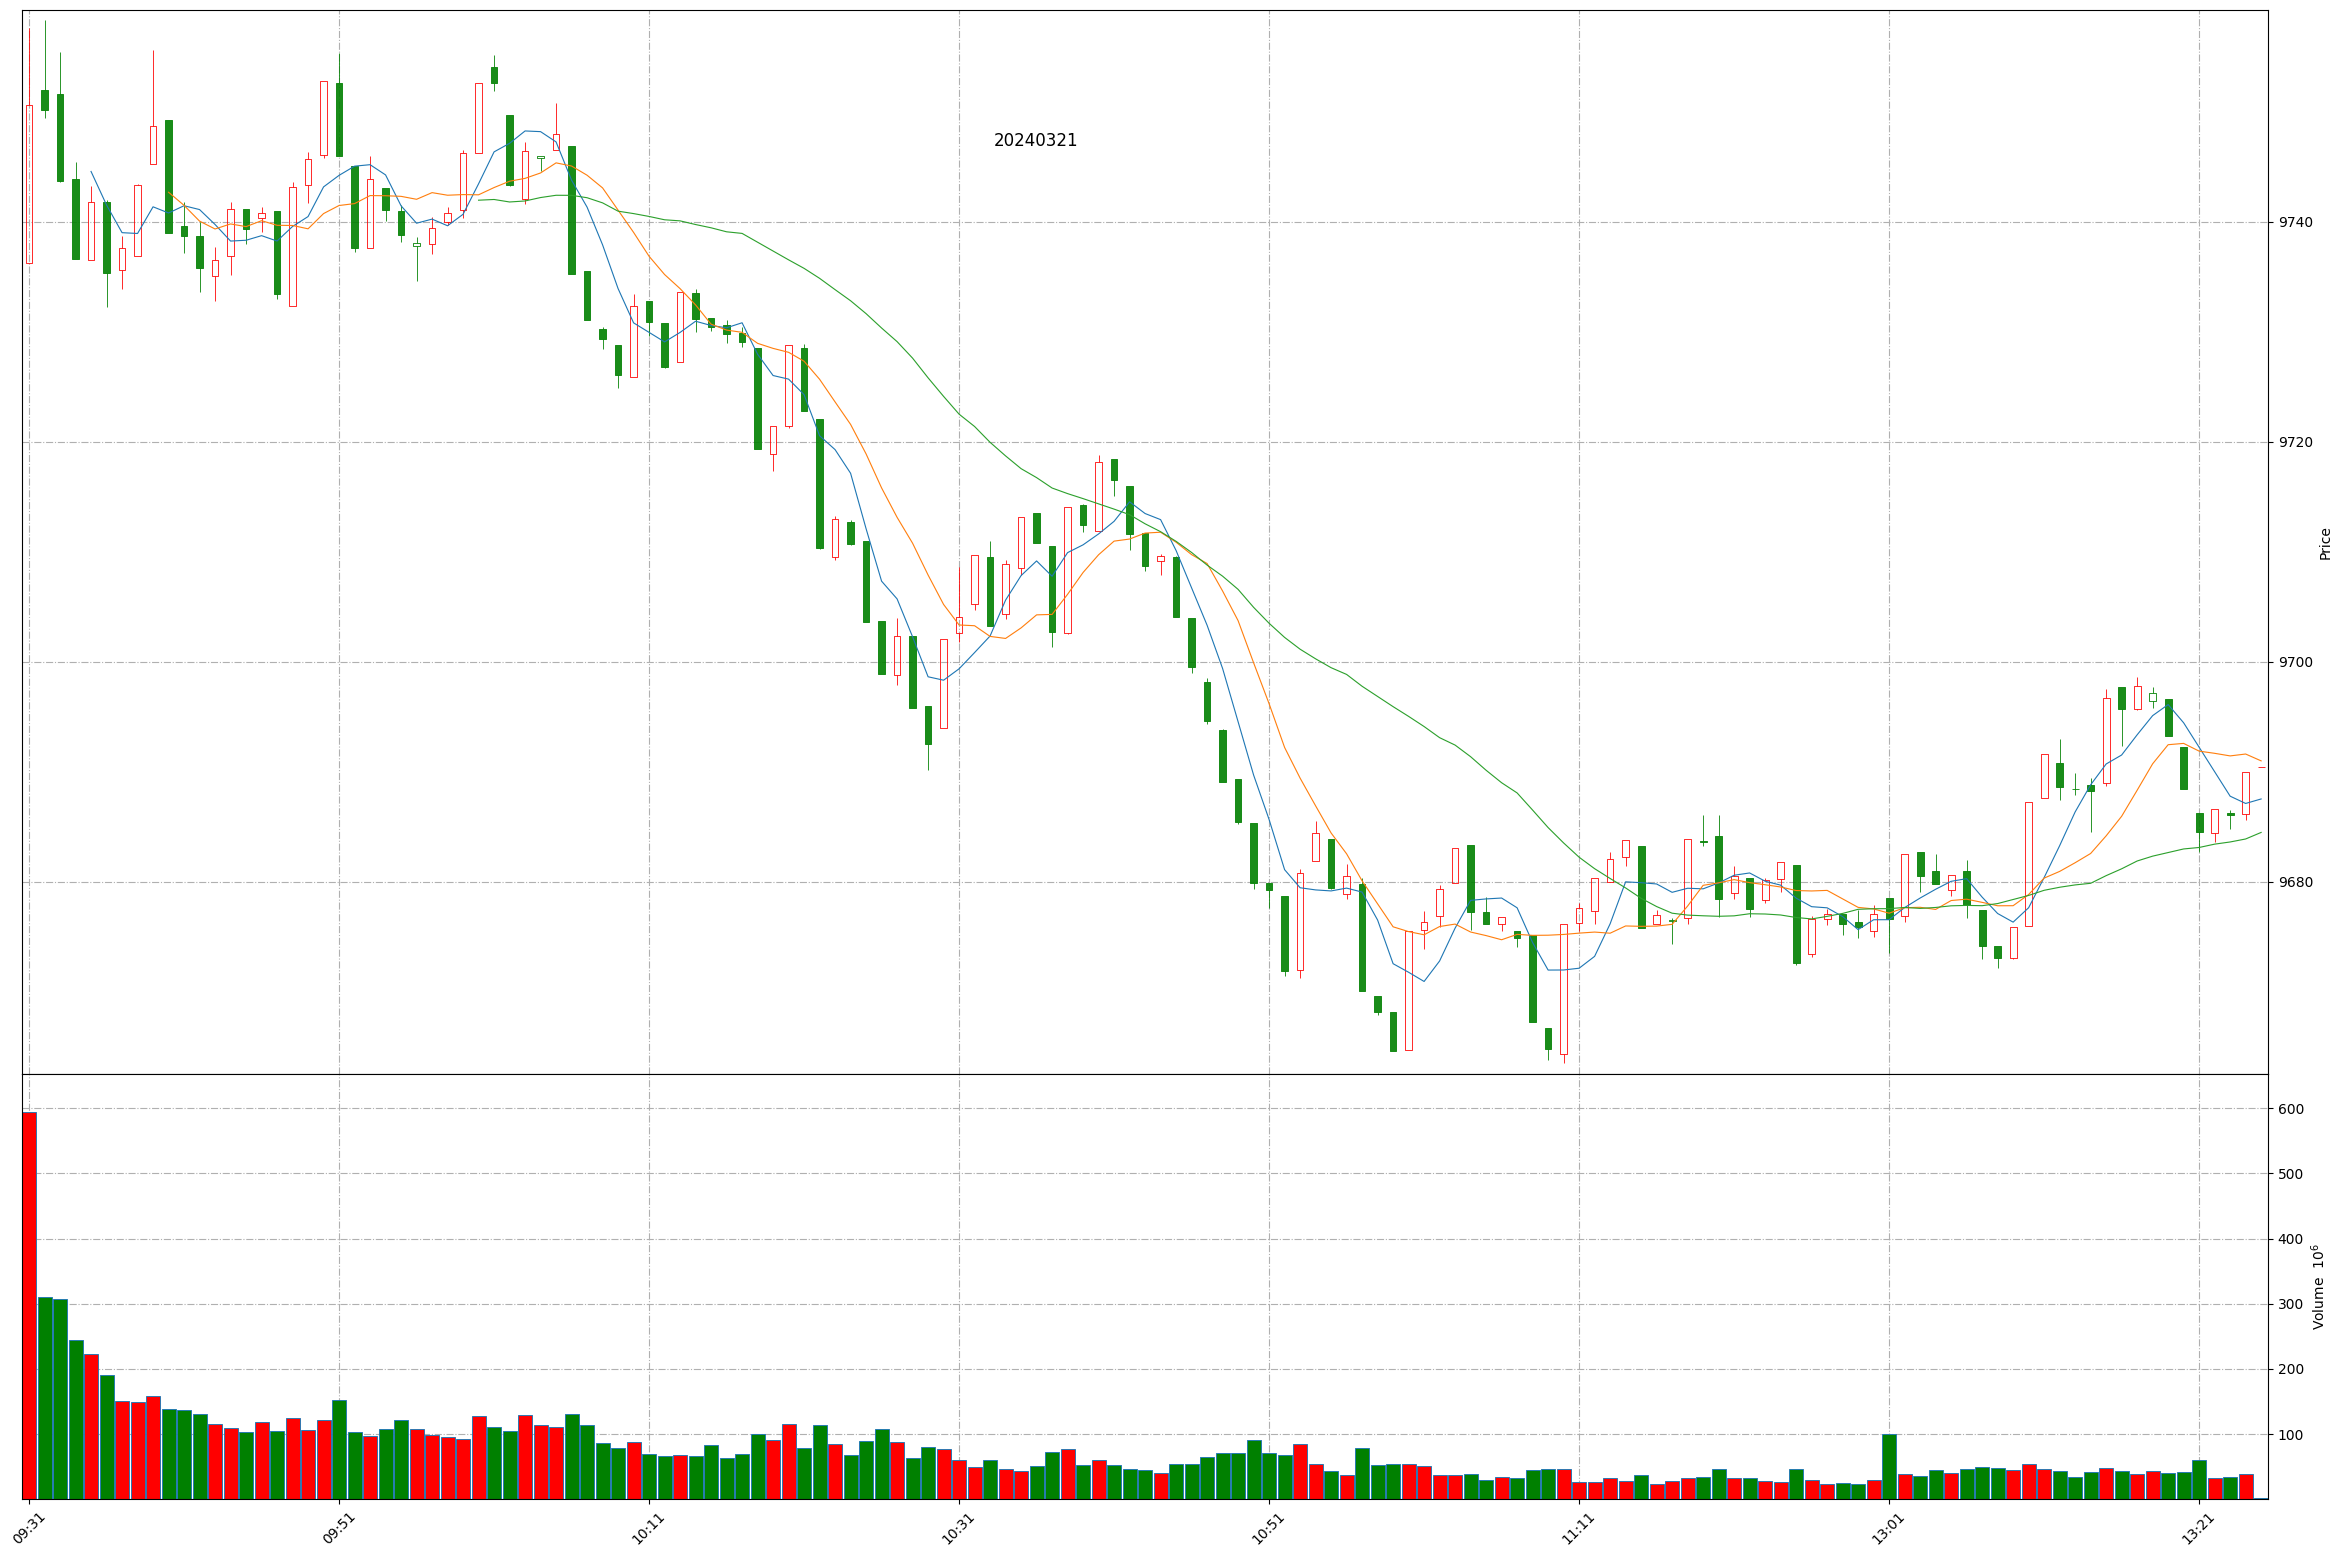
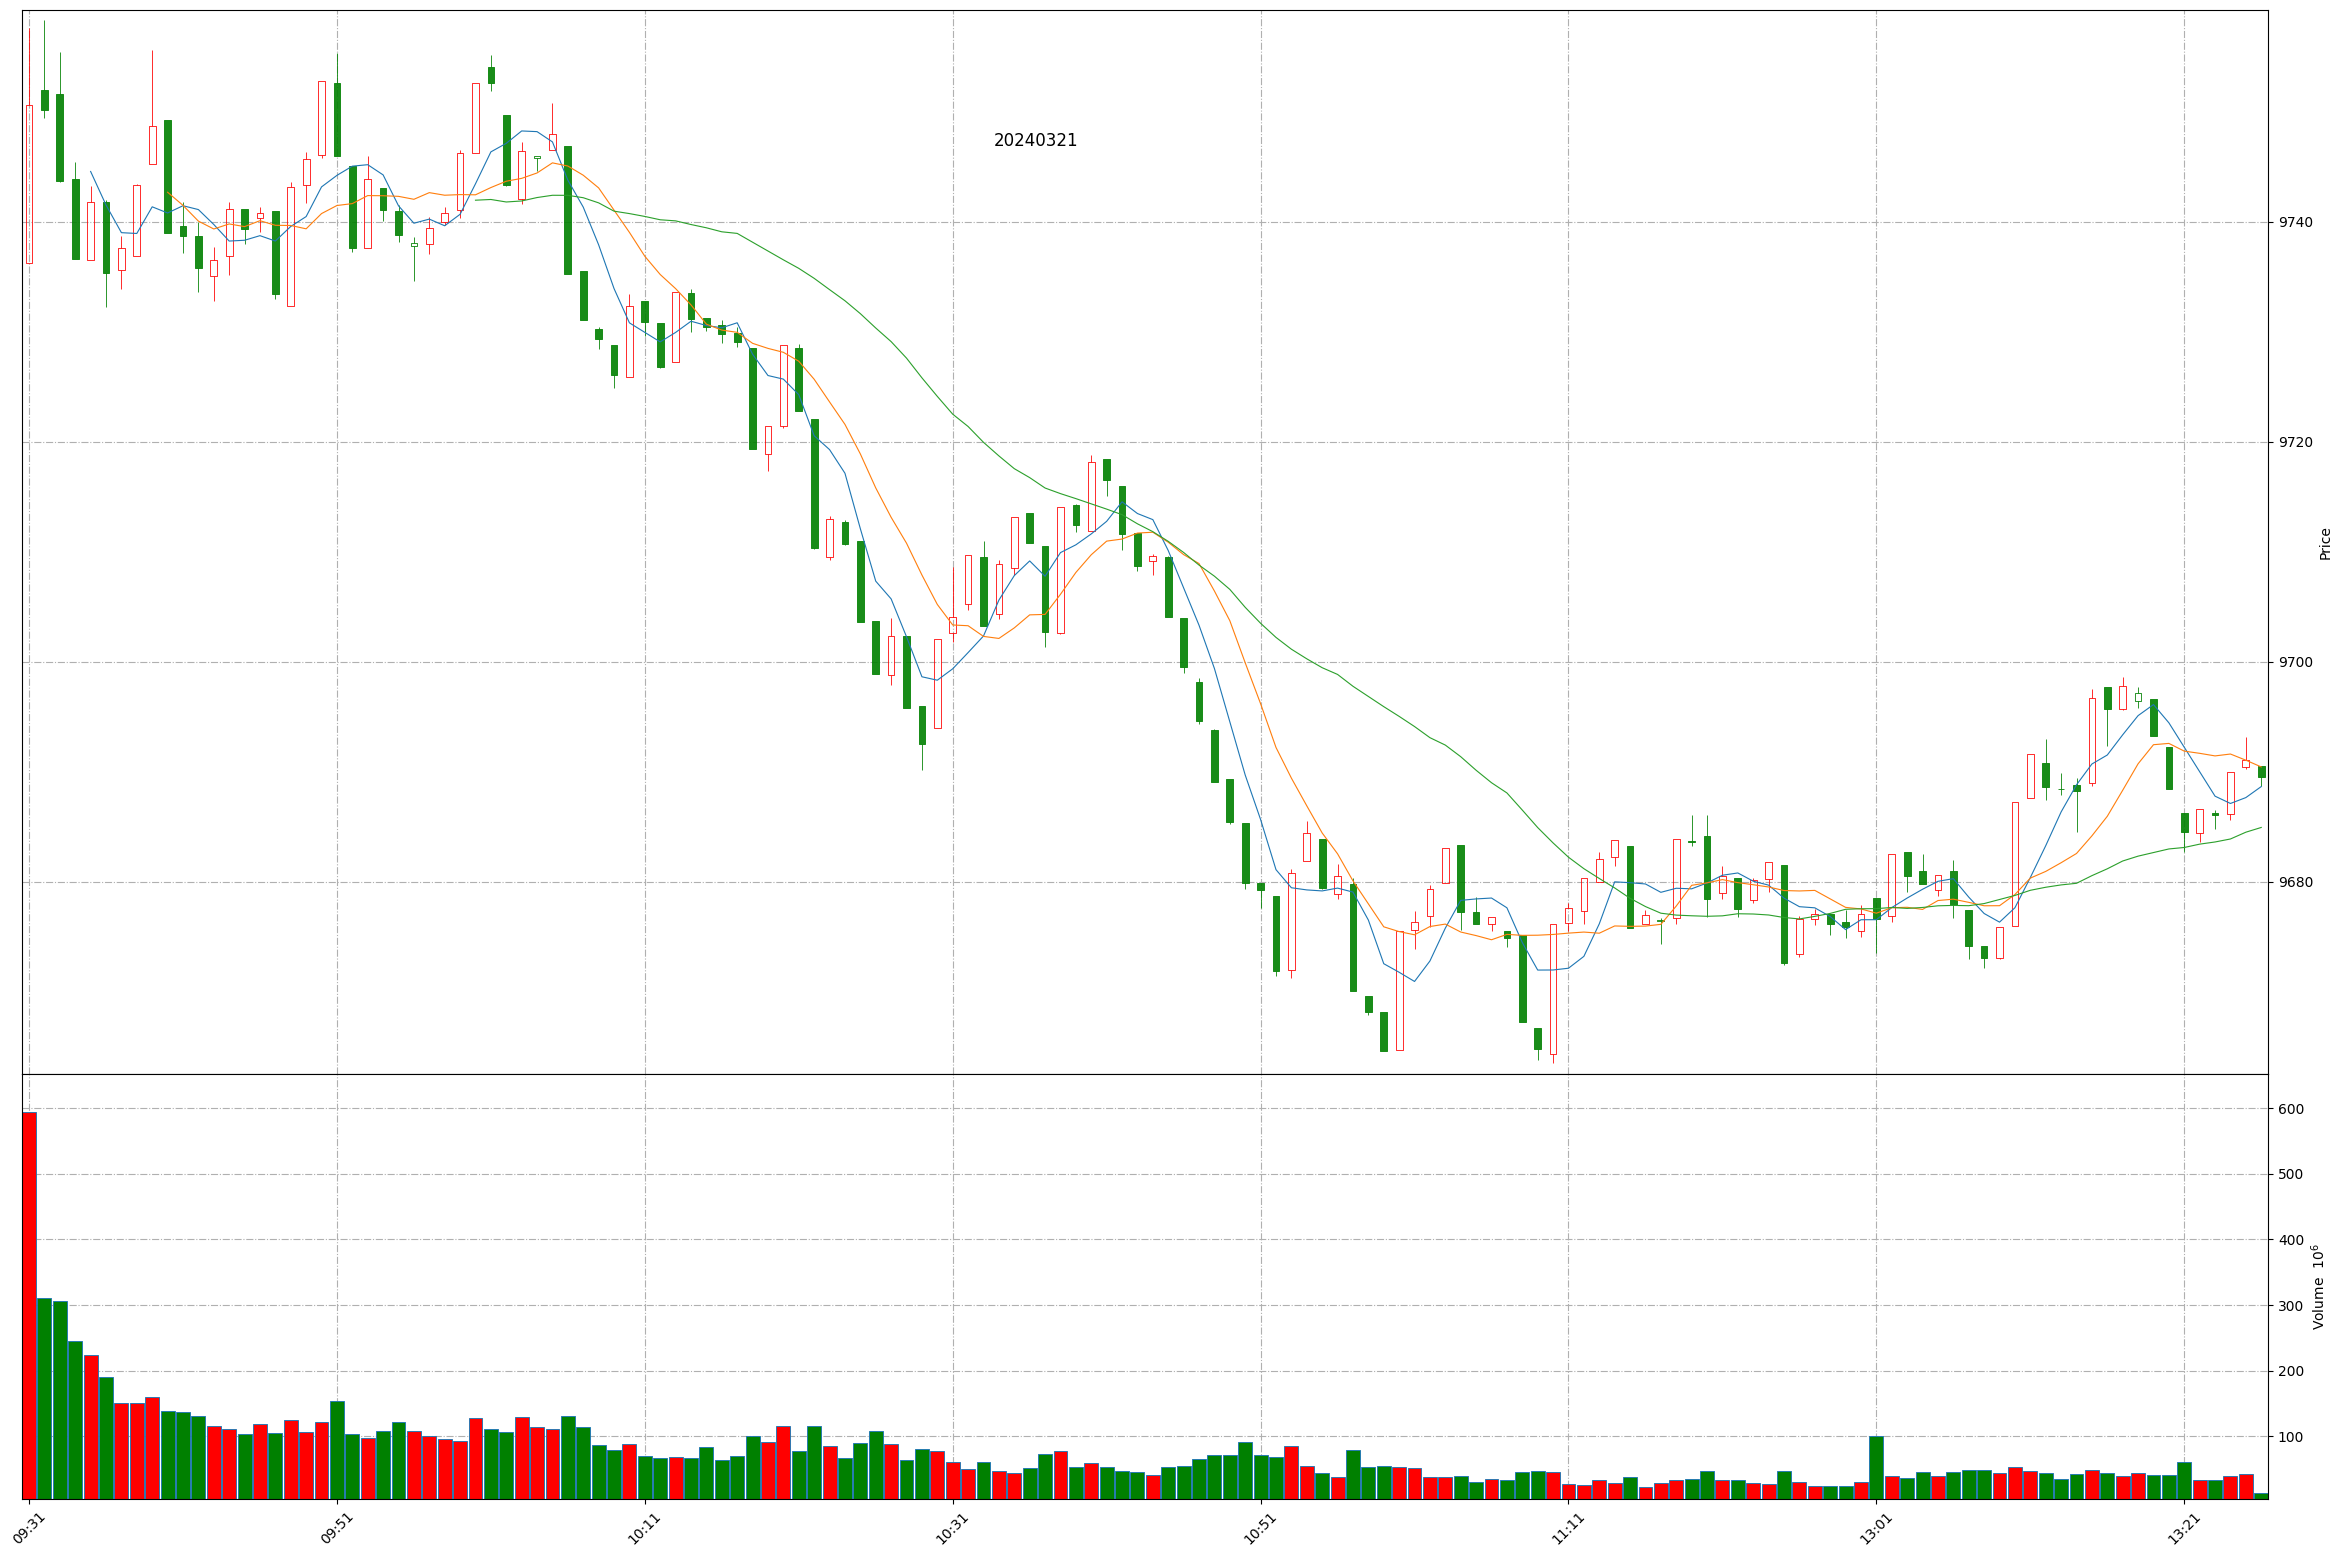
Github action update at 2024-03-21 13:25:35.

Changed region(s): [[0.0312, 0.0617, 0.9663, 0.6782], [0.0312, 0.894, 0.9663, 0.9865]]

diff --git a/README.md b/README.md
@@ -1,11 +1,11 @@
 
 # Daily-A-share-market-quotes 每日 A 股指数（5min 更新）- 20240321
 
-### 上证指数 20240321 13:24
+### 上证指数 20240321 13:25
 ![](./fig/2024/3/20240321-sh000001.png)
 
-### 深证成指 20240321 13:24
+### 深证成指 20240321 13:25
 ![](./fig/2024/3/20240321-sz399001.png)
 
-### 北证50 20240321 13:24
+### 北证50 20240321 13:25
 ![](./fig/2024/3/20240321-bj899050.png)
